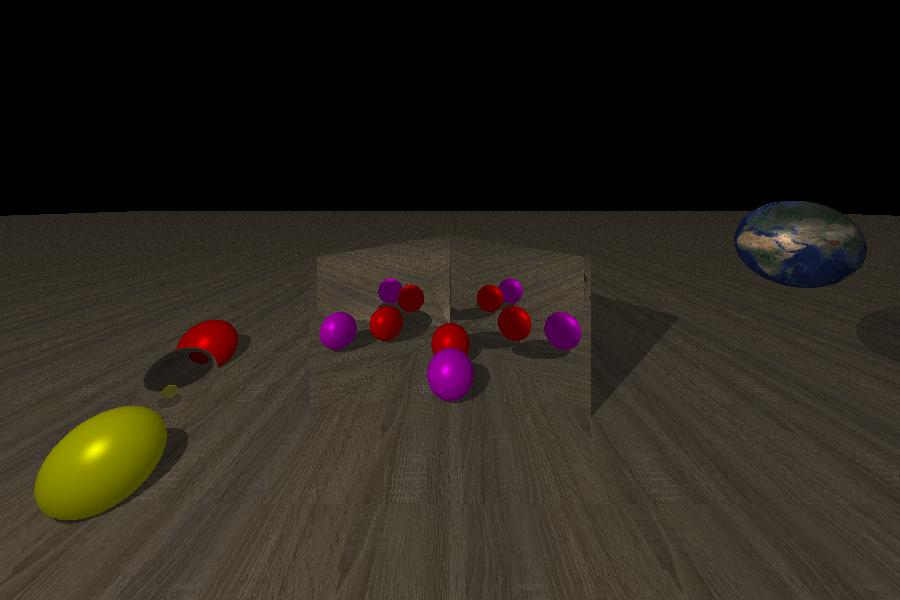
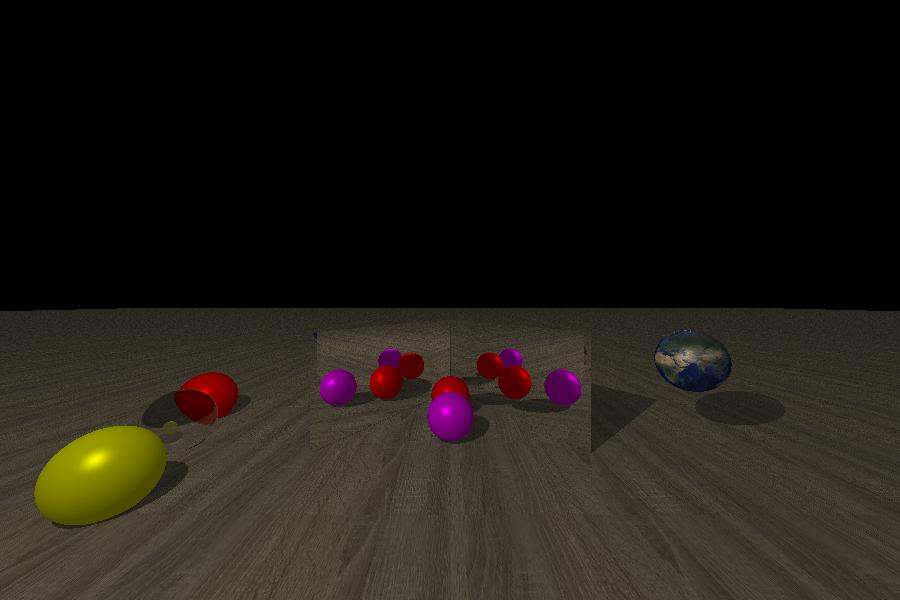
hw5

Changed region(s): [[0.0, 0.33, 1.0, 0.9], [0.0311, 0.75, 0.0622, 0.81]]

diff --git a/hw5/hw5.py b/hw5/hw5.py
@@ -8,7 +8,7 @@ import math
 
 width = 900
 height = 600
-camera = Vector(0, 100, 0)
+camera = Vector(0, 0, 0)
 lightSource = Vector(-300, 300, 0)
 backgroundColor = Vector(0.1, 0.1, 0.1)
 
@@ -19,14 +19,14 @@ objects.append(Sphere(Vector(0, -200, 520), 40.0, Vector(255, 0, 255), 'default'
 
 objects.append(Plane(Vector(0, -240, 500), Vector(0, 1, 0), None, 'default', Vector(-10000, -241, -10000), Vector(10000, -239, 10000), "wood.jpeg"))
 
-objects.append(Plane(Vector(0, -240, 800), Vector(1.5, 0, -1).normal(), Vector(255, 255, 255), 'reflection', Vector(-220, -239, 100), Vector(0, 10, 800), None))
-objects.append(Plane(Vector(0, -240, 800), Vector(-1.5, 0, -1).normal(), Vector(255, 255, 255), 'reflection', Vector(0, -239, 100), Vector(220, 10, 800), None))
+objects.append(Plane(Vector(0, -240, 800), Vector(1.5, 0, -1).normal(), Vector(255, 255, 255), 'reflection', Vector(-220, -239, 100), Vector(0, -50, 800), None))
+objects.append(Plane(Vector(0, -240, 800), Vector(-1.5, 0, -1).normal(), Vector(255, 255, 255), 'reflection', Vector(0, -239, 100), Vector(220, -50, 800), None))
 
 objects.append(Sphere(Vector(-500, -200, 620), 50, Vector(255, 0, 0), 'default', None))
 objects.append(Sphere(Vector(-400, -200, 350), 50, Vector(255, 255, 0), 'default', None))
 objects.append(Sphere(Vector(-450, -200, 500), 50, Vector(200, 200, 200), 'reflection_refraction', None))
 
-objects.append(Sphere(Vector(400, 50, 350), 50, None, 'default', "earth.jpeg"))
+objects.append(Sphere(Vector(400, -100, 500), 50, None, 'default', "earth.jpeg"))
 
 def getIntersections(ray):
     intersections = []
@@ -92,7 +92,7 @@ def getColor(ray, eye, recur):
                 newRay2 = Ray(point, hVector)
                 newEye2 = point
                 color2 = getColor(newRay2, newEye2, recur + 1)
-                return color1 * 0.5 + color2 * 0.5
+                return color1 * 0.6 + color2 * 0.4
             elif ndotv < 0:
                 nr = 1 / 1.2
                 nVector = nVector * (-1)
@@ -114,27 +114,6 @@ def getColor(ray, eye, recur):
             else:
                 color = backgroundColor * 0.1
                 return color
-        # elif minIntersection.obj.type == 'refraction':
-        #     ndotv = Vector.dot(nVector, vVector)
-        #     if ndotv > 0:
-        #         nr = 1 / 1.1
-        #         d = nVector * (ndotv * nr - math.sqrt(1 - (nr * nr * (1 - (ndotv * ndotv))))) - (vVector * nr)
-        #         newRay = Ray(point, d)
-        #         newEye = point
-        #         color = getColor(newRay, newEye, recur + 1)
-        #         return color
-        #     elif ndotv < 0:
-        #         nr = 1.1 / 1
-        #         nVector = nVector * (-1)
-        #         d = nVector * (ndotv * nr - math.sqrt(1 - (nr * nr * (1 - (ndotv * ndotv))))) - (vVector * nr)
-        #         newRay = Ray(point, d)
-        #         newEye = point
-        #         color = getColor(newRay, newEye, recur + 1)
-        #         return color
-
-        #     else:
-        #         color = backgroundColor * 0.1
-        #         return color
                             
         else:
             color = backgroundColor * 0.1
@@ -146,7 +125,8 @@ im = image.load()
 for x in range(height):
     print('row', x)
     for y in range(width):
-        ray = Ray(camera, (Vector(y - (width / 2), (height / 2) - x, 300) - camera).normal())
+        fov = 3.1416 / 2
+        ray = Ray(camera, (Vector(y - (width / 2), (height / 2) - x, (height / 2) / math.tan(fov * 0.5)) - camera).normal())
         color = getColor(ray, camera, 0)
         im[y,x] = (round(color.x), round(color.y), round(color.z))
 

diff --git a/hw5/Plane.py b/hw5/Plane.py
@@ -38,7 +38,7 @@ class Plane:
             width, height = self.im.size
             u = Vector(self.normal.y, self.normal.x * (-1), 0)
             v = Vector.cross(u, self.normal)
-            uCoord = Vector.dot(u, point) % width
-            vCoord = Vector.dot(v, point) % height
+            uCoord = Vector.dot(u, point) % width - 1
+            vCoord = Vector.dot(v, point) % height - 1
             r, g, b = self.px[uCoord, vCoord]
             return Vector(r, g, b)
